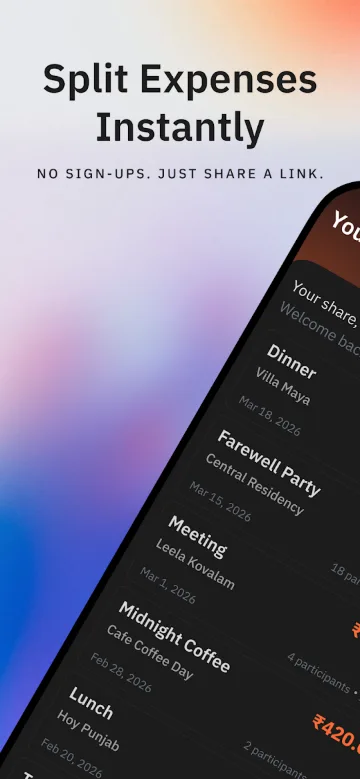
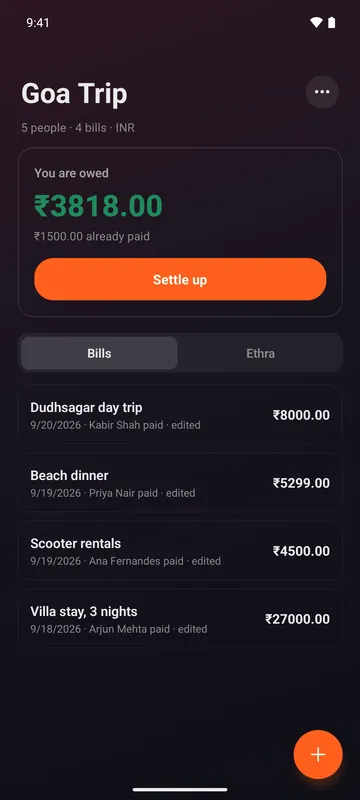
Release 0.2.0: refresh projects, add Signalwise, freelance note
- Ethra: new website and app screenshots, groups and settle-up copy
- PrepHub: study-notebook screenshot, updated stats (86 guides, 1,666 questions, 162 challenges)
- GeoVault: collections and new search in the description
- Signalwise: new card with Google Play closed-testing link
- Taste Magic: login screenshot instead of the module map, no public link
- Layout: Ethra and PrepHub full width, the two apps side by side, then AJ Homes and Taste Magic
- Contact: freelance availability line
- Hooks: pre-commit and commit-msg reject Claude/Anthropic as author, committer or co-author

diff --git a/src/sections/Projects.tsx b/src/sections/Projects.tsx
@@ -9,7 +9,7 @@ interface FrameProps {
   className?: string;
 }
 
-function BrowserFrame({ src, alt, url, className = "" }: FrameProps & { url: string }) {
+function BrowserFrame({ src, alt, url, className = "" }: FrameProps & { url?: string }) {
   return (
     <div
       className={`overflow-hidden rounded-xl border border-white/10 bg-ink-800 shadow-2xl shadow-black/60 ${className}`}
@@ -18,9 +18,11 @@ function BrowserFrame({ src, alt, url, className = "" }: FrameProps & { url: str
         <span className="h-2 w-2 rounded-full bg-white/15" />
         <span className="h-2 w-2 rounded-full bg-white/15" />
         <span className="h-2 w-2 rounded-full bg-white/15" />
-        <span className="ml-3 truncate rounded-md bg-white/[0.05] px-2 py-0.5 font-mono text-[10px] text-stone-400">
-          {url}
-        </span>
+        {url && (
+          <span className="ml-3 truncate rounded-md bg-white/[0.05] px-2 py-0.5 font-mono text-[10px] text-stone-400">
+            {url}
+          </span>
+        )}
       </div>
       <img src={src} alt={alt} width={1200} height={750} loading="lazy" className="block h-auto w-full" />
     </div>
@@ -34,7 +36,7 @@ function PhoneFrame({ src, alt, className = "" }: FrameProps) {
         src={src}
         alt={alt}
         width={360}
-        height={780}
+        height={800}
         loading="lazy"
         className="block h-auto w-full rounded-[1.2rem]"
       />
@@ -67,7 +69,7 @@ function Header({ project }: { project: Project }) {
 function Footer({ project }: { project: Project }) {
   return (
     <div className="relative z-10 mt-6">
-      <ul className="mb-4 flex flex-wrap gap-1.5">
+      <ul className={`flex flex-wrap gap-1.5 ${project.links.length ? "mb-4" : ""}`}>
         {project.tags.map((tag) => (
           <li key={tag} className="rounded-full border border-white/10 px-2.5 py-0.5 text-[11px] text-stone-400">
             {tag}
@@ -93,14 +95,14 @@ function Footer({ project }: { project: Project }) {
 }
 
 export default function Projects() {
-  const { ethra, geovault, ajhomes, tastemagic, prephub } = projects;
+  const { ethra, geovault, ajhomes, tastemagic, signalwise, prephub } = projects;
 
   return (
     <section id="projects" className="relative mx-auto max-w-6xl scroll-mt-24 px-6 py-14 md:py-20">
       <SectionHeading title="Projects" />
 
-      <div className="grid gap-5 lg:grid-cols-3">
-        {/* Ethra: wide card with web + phone mockups */}
+      <div className="grid gap-5 lg:grid-cols-2">
+        {/* Ethra: full-width card with web + phone mockups */}
         <Reveal className="lg:col-span-2">
           <SpotlightCard className="flex h-full flex-col p-7">
             <div className="grid gap-8 md:grid-cols-[minmax(0,1fr)_minmax(0,1.15fr)] md:items-center">
@@ -127,64 +129,8 @@ export default function Projects() {
           </SpotlightCard>
         </Reveal>
 
-        {/* GeoVault: tall card with phone */}
-        <Reveal delay={0.08} className="lg:row-span-2">
-          <SpotlightCard className="flex h-full flex-col p-7">
-            <Header project={geovault} />
-            <div className="relative mt-8 flex flex-1 items-end justify-center overflow-hidden">
-              <div className="pointer-events-none absolute bottom-0 h-2/3 w-2/3 rounded-full bg-accent/10 blur-3xl" />
-              <PhoneFrame
-                src={geovault.phone}
-                alt="GeoVault saved places list"
-                className="relative w-[62%] max-w-[230px] translate-y-6 transition-transform duration-700 group-hover:translate-y-2"
-              />
-            </div>
-            <Footer project={geovault} />
-          </SpotlightCard>
-        </Reveal>
-
-        {/* AJ Homes: site screenshot */}
-        <Reveal delay={0.1}>
-          <SpotlightCard className="flex h-full flex-col p-7">
-            <BrowserFrame
-              src={ajhomes.web}
-              alt="AJ Homes property search"
-              url="ajhomeslettings.co.uk"
-              className="mb-7 transition-transform duration-700 group-hover:-translate-y-1"
-            />
-            <Header project={ajhomes} />
-            <div className="mt-auto">
-              <Footer project={ajhomes} />
-            </div>
-          </SpotlightCard>
-        </Reveal>
-
-        {/* Taste Magic: module map */}
-        <Reveal delay={0.16}>
-          <SpotlightCard className="flex h-full flex-col p-7">
-            <div className="mb-7 rounded-xl border border-white/10 bg-ink-800/80 p-4">
-              <p className="mb-3 font-mono text-[10px] uppercase tracking-[0.2em] text-stone-400">Workspace modules</p>
-              <ul className="flex flex-wrap gap-1.5">
-                {tastemagic.modules.map((m, i) => (
-                  <li
-                    key={m}
-                    className="rounded-md border border-white/10 bg-white/[0.03] px-2 py-1 text-xs text-stone-300 transition-colors duration-300 group-hover:border-accent/40"
-                    style={{ transitionDelay: `${i * 30}ms` }}
-                  >
-                    {m}
-                  </li>
-                ))}
-              </ul>
-            </div>
-            <Header project={tastemagic} />
-            <div className="mt-auto">
-              <Footer project={tastemagic} />
-            </div>
-          </SpotlightCard>
-        </Reveal>
-
         {/* PrepHub: full-width, it is the biggest of the side projects */}
-        <Reveal className="lg:col-span-3">
+        <Reveal className="lg:col-span-2">
           <SpotlightCard className="p-7">
             <div className="grid gap-10 md:grid-cols-[minmax(0,1fr)_minmax(0,1.2fr)] md:items-center">
               <div>
@@ -205,6 +151,68 @@ export default function Projects() {
                 url={prephub.url}
                 className="transition-transform duration-700 group-hover:-translate-y-1"
               />
+            </div>
+          </SpotlightCard>
+        </Reveal>
+
+        {/* GeoVault and Signalwise: phone cards, side by side */}
+        <Reveal>
+          <SpotlightCard className="flex h-full flex-col p-7">
+            <Header project={geovault} />
+            <div className="relative mt-8 flex flex-1 items-end justify-center overflow-hidden">
+              <div className="pointer-events-none absolute bottom-0 h-2/3 w-2/3 rounded-full bg-accent/10 blur-3xl" />
+              <PhoneFrame
+                src={geovault.phone}
+                alt="GeoVault saved places list"
+                className="relative w-[62%] max-w-[230px] translate-y-6 transition-transform duration-700 group-hover:translate-y-2"
+              />
+            </div>
+            <Footer project={geovault} />
+          </SpotlightCard>
+        </Reveal>
+
+        <Reveal delay={0.08}>
+          <SpotlightCard className="flex h-full flex-col p-7">
+            <Header project={signalwise} />
+            <div className="relative mt-8 flex flex-1 items-end justify-center overflow-hidden">
+              <div className="pointer-events-none absolute bottom-0 h-2/3 w-2/3 rounded-full bg-accent/10 blur-3xl" />
+              <PhoneFrame
+                src={signalwise.phone}
+                alt="Signalwise nearby networks list"
+                className="relative w-[62%] max-w-[230px] translate-y-6 transition-transform duration-700 group-hover:translate-y-2"
+              />
+            </div>
+            <Footer project={signalwise} />
+          </SpotlightCard>
+        </Reveal>
+
+        {/* AJ Homes: site screenshot */}
+        <Reveal>
+          <SpotlightCard className="flex h-full flex-col p-7">
+            <BrowserFrame
+              src={ajhomes.web}
+              alt="AJ Homes property search"
+              url="ajhomeslettings.co.uk"
+              className="mb-7 transition-transform duration-700 group-hover:-translate-y-1"
+            />
+            <Header project={ajhomes} />
+            <div className="mt-auto">
+              <Footer project={ajhomes} />
+            </div>
+          </SpotlightCard>
+        </Reveal>
+
+        {/* Taste Magic: login screenshot, no address shown since it is an internal tool */}
+        <Reveal delay={0.08}>
+          <SpotlightCard className="flex h-full flex-col p-7">
+            <BrowserFrame
+              src={tastemagic.web}
+              alt="Taste Magic workspace sign-in"
+              className="mb-7 transition-transform duration-700 group-hover:-translate-y-1"
+            />
+            <Header project={tastemagic} />
+            <div className="mt-auto">
+              <Footer project={tastemagic} />
             </div>
           </SpotlightCard>
         </Reveal>

diff --git a/src/data/resume.ts b/src/data/resume.ts
@@ -89,8 +89,8 @@ export const projects = {
     name: "Ethra",
     kind: "Bill-splitting app · Android + Web",
     description:
-      "Group expense splitting app. Bills are organised by event, friends join through a shared link with no sign-up, and multiple people can edit the same bill. Handles consumption-based splits, multiple taxes and discounts, and shares summaries over PDF, SMS or WhatsApp.",
-    tags: ["React", "Android", "Web app", "PDF export"],
+      "Bill splitting app for groups, trips and flatmates. Put every bill from a weekend in one group, record who paid (even when several people did), and settle up once at the end in the fewest transfers, with a breakdown of why each amount is owed. Splits by item, units, shares, percentage or amount, handles multiple taxes, tips and discounts, and shares summaries as PDF or over WhatsApp.",
+    tags: ["React Native", "Expo", "Web app", "Groups & settle up", "PDF export"],
     icon: "/projects/ethra-icon.webp",
     web: "/projects/ethra-web.webp",
     phone: "/projects/ethra-app.webp",
@@ -104,11 +104,22 @@ export const projects = {
     name: "GeoVault",
     kind: "Personal project · Android",
     description:
-      "A private location notebook for travellers and foodies. Save places with notes, tags and nine categories, search across everything, and open any spot in your maps app. Local-first with no server or tracking, plus optional scheduled Google Drive backups and JSON export.",
-    tags: ["Android", "Local-first", "Google Drive backup", "Full-text search"],
+      "A private location notebook for travellers and foodies. Save places with notes, tags and nine categories, group them into collections, and find any spot again with full-text search, recent searches or browse by category, then open it in your maps app. Local-first with no server or tracking, plus optional scheduled Google Drive backups and JSON export.",
+    tags: ["React Native", "Local-first", "Collections", "Google Drive backup", "Full-text search"],
     icon: "/projects/geovault-icon.webp",
     phone: "/projects/geovault-app.webp",
     links: [{ label: "Google Play", href: "https://play.google.com/store/apps/details?id=com.geovault.app" }],
+  },
+  signalwise: {
+    name: "Signalwise",
+    kind: "Personal project · Android",
+    description:
+      "An honest Wi-Fi analyzer with no ads, no subscription and no tracking. Lists nearby networks with signal, band, channel and security, recommends the least crowded channel for your router, and adds a live signal meter for finding dead zones and a speed test that tells you whether Wi-Fi or your internet plan is the bottleneck. In English and Hindi.",
+    note: "In closed testing on Google Play ahead of the public release.",
+    tags: ["Kotlin", "Jetpack Compose", "Offline", "M-Lab speed test"],
+    icon: "/projects/signalwise-icon.webp",
+    phone: "/projects/signalwise-app.webp",
+    links: [{ label: "Google Play", href: "https://play.google.com/store/apps/details?id=com.signalwise.app" }],
   },
   ajhomes: {
     name: "AJ Homes",
@@ -125,19 +136,19 @@ export const projects = {
     description:
       "Web app for the staff of an event-management business to run a booking from first enquiry to completed event - capture a lead, plan each service (catering, photography, decoration, makeup, return gifts), generate a bill, track payments, coordinate vendors, and follow through with reminders, reviews, and a full audit trail.",
     note: "Internal staff tool (not customer-facing), multi-tenant, installable PWA. Tenant-agnostic - branding comes from the API, never hardcoded.",
-    modules: ["Leads", "Bookings", "Services", "Billing", "Payments", "Vendors", "Reminders", "Reviews", "Audit trail"],
     tags: ["React", "Vite", "Mantine", "TanStack Query", "PWA"],
-    links: [{ label: "Open app", href: "https://app.tastemagic.in/login" }],
+    web: "/projects/tastemagic.webp",
+    links: [],
   },
   prephub: {
     name: "PrepHub",
     kind: "Personal project · Interview preparation platform",
     description:
-      "An interview preparation web app I built for my own learning. Guides across front end, back end, AI engineering, DevOps and system design, with a quiz mode, spaced-repetition daily review, a timed interview simulator, and JavaScript and React playgrounds with graded coding challenges.",
+      "An interview preparation web app I built for my own learning, with a study-notebook design. Guides across front end, back end, AI engineering, DevOps and system design, with a quiz mode, spaced-repetition daily review, a timed interview simulator, and JavaScript, TypeScript and React playgrounds in a VS Code editor with graded coding challenges.",
     stats: [
-      { value: "76", label: "Guides" },
-      { value: "157", label: "Coding challenges" },
-      { value: "14", label: "Cheat sheets" },
+      { value: "86", label: "Guides" },
+      { value: "1,666", label: "Interview questions" },
+      { value: "162", label: "Coding challenges" },
     ],
     tags: ["React 19", "TypeScript", "Vite", "Tailwind CSS", "PWA"],
     web: "/projects/prephub.webp",

diff --git a/src/data/resume.test.ts b/src/data/resume.test.ts
@@ -2,6 +2,7 @@
 import { existsSync } from "node:fs";
 import { fileURLToPath } from "node:url";
 import { describe, expect, it } from "vitest";
+import type { Project } from "../types";
 import * as content from "./resume";
 
 /** Every string in the exported content, with its path for error messages. */
@@ -38,9 +39,10 @@ describe("site content", () => {
     expect(missing).toEqual([]);
   });
 
-  it("gives every project at least one link", () => {
+  it("gives every project a link or a screenshot", () => {
     for (const project of Object.values(content.projects)) {
-      expect(project.links.length, project.name).toBeGreaterThan(0);
+      const p: Project = project;
+      expect(p.links.length > 0 || Boolean(p.web ?? p.phone), p.name).toBe(true);
     }
   });
 });

diff --git a/src/sections/Contact.tsx b/src/sections/Contact.tsx
@@ -46,6 +46,10 @@ export default function Contact() {
             </Reveal>
             <Reveal delay={0.08}>
               <p className="mt-5 text-stone-400">Based in {profile.location}.</p>
+              <p className="mt-3 max-w-md text-stone-400">
+                I also take on <span className="text-white">freelance work</span>. If you need a website or an app
+                built, get in touch.
+              </p>
             </Reveal>
 
             <Reveal delay={0.16} className="mt-10 flex flex-wrap items-center gap-3">

diff --git a/README.md b/README.md
@@ -29,7 +29,8 @@ npm run dev     # http://localhost:3000
 
 ## Git hooks
 
-- **pre-commit**: Prettier and ESLint on staged files; rejects files over 1 MB.
+- **pre-commit**: Prettier and ESLint on staged files; rejects files over 1 MB; rejects commits whose author or committer is Claude/Anthropic.
+- **commit-msg**: rejects Claude/Anthropic `Co-authored-by` trailers and "Generated with" lines.
 - **pre-push**: `npm run verify`, so anything that would fail the Cloudflare build fails locally first.
 
 ## Project structure
